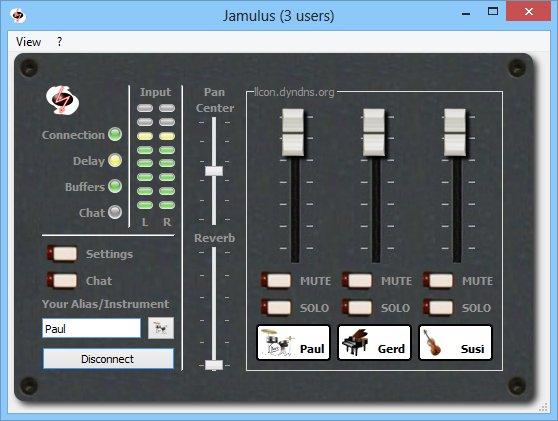
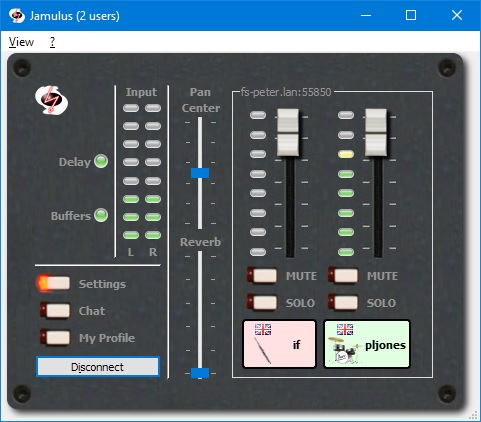
Update user manual for channel level meters.
Also includes a number of minor wording changes elsewhere.

diff --git a/src/res/homepage/manual.md b/src/res/homepage/manual.md
@@ -81,11 +81,11 @@ The reverberation effect requires significant CPU so that it should only be used
 level fader is set to minimum (which is the default setting), the reverberation effect is switched off and does
 not cause any additional CPU usage.
 
-### Local audio input fader
+### Local audio pan / balance control
 
-![Local audio input fader](audiofader.jpg)
+![Local audio pan / balance control](audiofader.jpg)
 
-With the audio fader, the relative levels of the left and right local audio channels can be changed. For a mono signal
+With the balance control, the relative levels of the left and right local audio channels can be changed. For a mono signal
 it acts like a panning between the two channels. If, e.g., a microphone is connected to the right input channel and
 an instrument is connected to the left input channel which is much louder than the microphone, move the audio fader
 in a direction where the label above the fader shows L -x, where x is the current attenuation indicator.
@@ -94,11 +94,13 @@ in a direction where the label above the fader shows L -x, where x is the curren
 
 ![Audio faders](faders.jpg)
 
-In the audio mixer frame, a fader for each connected client at the server is shown. This includes a fader for the own signal.
-With the faders, the audio level of each client can be modified individually.
+In the audio mixer frame, a fader is shown for each connected client at the server, including yourself.
+The faders allow you to adjust the level of what you hear without affecting what others hear.
+The VU meter shows the input level at the server - that is, what you are sending.
 
-With the Mute checkbox, the current audio channel can be muted. With the Solo checkbox, the current audio channel can
-be set to solo which means that all other channels except of the current channel are muted.
+Using the Mute checkbox prevents the indicated channel being heard in your local mix.
+
+The solo checkboxes allow you to hear only one, or several, channels, with those not soloed being muted.
 
 Settings Window
 ---------------
@@ -205,6 +207,12 @@ that client was already stored.
 ![Fancy skin](fancyskin.png)
 
 If enabled, a fancy skin will be applied to the main window.
+
+### Display channel levels
+
+![Display channel levels](displaychannellevels.png)
+
+If enabled, the channel input level for each connected client will be displayed in the mixer.
 
 ### Central server address
 
